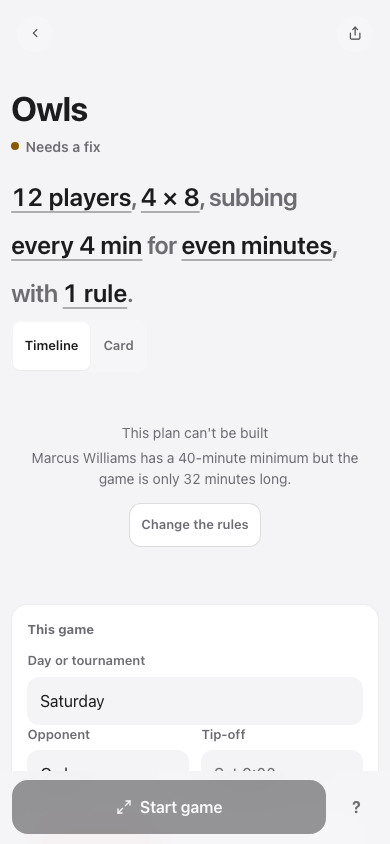
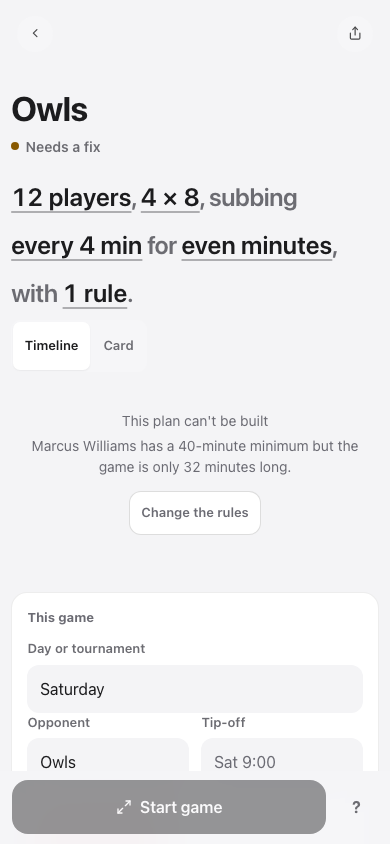
Pay for the Timeline | Card seg out of the gaps around it (#29)
CI caught two things this tree could not see on a Mac.

Nine rows and the Start game bar stopped fitting in 844px. #72 set that
budget and left about 9px of room on CI, where a wider fallback font wraps
the sample sentence onto a fourth line. This change put a 52px seg (48px
buttons inside `.seg`'s 2px track) plus a 12px gap where a 48px header row
used to be, which is 16px more than the budget had, and CI's ninth row ended
6.75px below the bar.

The 16px comes back out of two gaps that were reading as nothing anyway:
`#viewSeg`'s own 12px, for the same reason `.s-rot > .block-hd` gives up its
gap (48px buttons with centered labels are already half space), and
`.tl-head`'s 4px, where `align-items: end` leaves the Q1-Q4 labels' own
descender space above the first row. Rows now start at 390px here, 16px
higher than before, which should put CI back at #72's own margin.

The smoke guard no longer names which select is allowed to shorten. A select
paints its text in whatever font the platform gives form controls, and CI's
is wider: "Short names" needs 174px here and 203px there, so pinning the one
value that runs out of room first pinned a Mac's fonts. The rule is now the
one that actually matters -- at the design size (390px, 16px root) every
value reads in full, and above it a value may be shortened but only with an
ellipsis, never sliced. Falsified by narrowing #cardSize to 60px: it fails at
390px/16px with "needs 140px of a 60px control".
[…]

Changed region(s): [[0.0615, 0.4929, 0.9231, 0.6469], [0.0615, 0.7085, 0.3692, 0.9242], [0.5231, 0.8318, 0.7077, 0.9242]]

diff --git a/app/app.css b/app/app.css
@@ -131,8 +131,17 @@ a { color: inherit; }
 .seg.wide { display: flex; width: 100%; padding: 2px; }
 .seg.wide button { flex: 1; padding: .58rem .3rem; font-size: var(--fs-secondary); }
 /* #29 decision 5: Timeline | Card, the bare (non-`.wide`) shape -- everything
-   above is already correct for it; only the gap to what follows is new. */
-#viewSeg { margin-bottom: .75rem; }
+   above is already correct for it.
+   No gap under it, for the reason `.s-rot > .block-hd` gives above: this seg
+   stands where "Rotation" and its 48px Shuffle used to, and its own buttons
+   are 48px tall with their labels centered, so the lower half of the seg is
+   already the space. It has to be earned rather than spent: the seg's box is
+   52px (48px buttons inside `.seg`'s own 2px track inset) where the header it
+   replaced was 48px, and smoke `game rows fit` has all nine rows above the
+   Start game bar at 390x844 by about 9px on CI, where a wider fallback font
+   wraps the sample sentence onto a fourth line. Twelve px of gap here is more
+   than that whole margin. */
+#viewSeg { margin-bottom: 0; }
 
 .btn {
   display: inline-flex; align-items: center; justify-content: center; gap: .45rem;
@@ -646,7 +655,12 @@ a { color: inherit; }
    case that needs the extra room. */
 .tl { --lab: 9.5rem; --tot: 2rem; container-type: inline-size; }
 .tl:not(.even) { --tot: 5.2rem; }
-.tl-head { display: grid; grid-template-columns: 1fr; gap: .6rem; align-items: end; margin-bottom: .25rem; }
+/* #29: no gap under the Q1-Q4 labels either. `align-items: end` already
+   leaves the label's own descender space between its text and the first row,
+   so the 4px this used to add read as nothing -- and the fold budget #72 set
+   out (nine rows plus the Start game bar inside 844px) has to pay for a 52px
+   Timeline | Card seg where a 48px header row used to be. */
+.tl-head { display: grid; grid-template-columns: 1fr; gap: .6rem; align-items: end; margin-bottom: 0; }
 .tl-head > div:first-child, .tl-head > div:last-child { display: none; }
 .tl-periods { position: relative; height: 1.1rem; padding: 0 .3rem; }
 /* #69 decision 7: no uppercase, no heavy weight -- a quiet footnote above the

diff --git a/app/sw.js b/app/sw.js
@@ -19,7 +19,7 @@
    whenever a precached file changes -- `npm test` names it in the SHELL
    failure and `scripts/check-sw-version.mjs` enforces it across commits --
    but a forgotten bump is now a stale LABEL, not a stale SHELL. */
-const VERSION = '296';
+const VERSION = '297';
 
 /* Fingerprint of every file PRECACHE names, and the half of the cache name
    that actually busts it. `test/sw.test.js` recomputes it from the bytes on
@@ -29,7 +29,7 @@ const VERSION = '296';
    `activate` below deletes the old one. It lives HERE rather than in the test
    so that the edit updating it lands on the line below VERSION. Deleting it
    fails the suite too. */
-const SHELL = '415629572814';
+const SHELL = '8a087cc86f2a';
 
 const CACHE = `benchcard-v${VERSION}-${SHELL}`;
 
